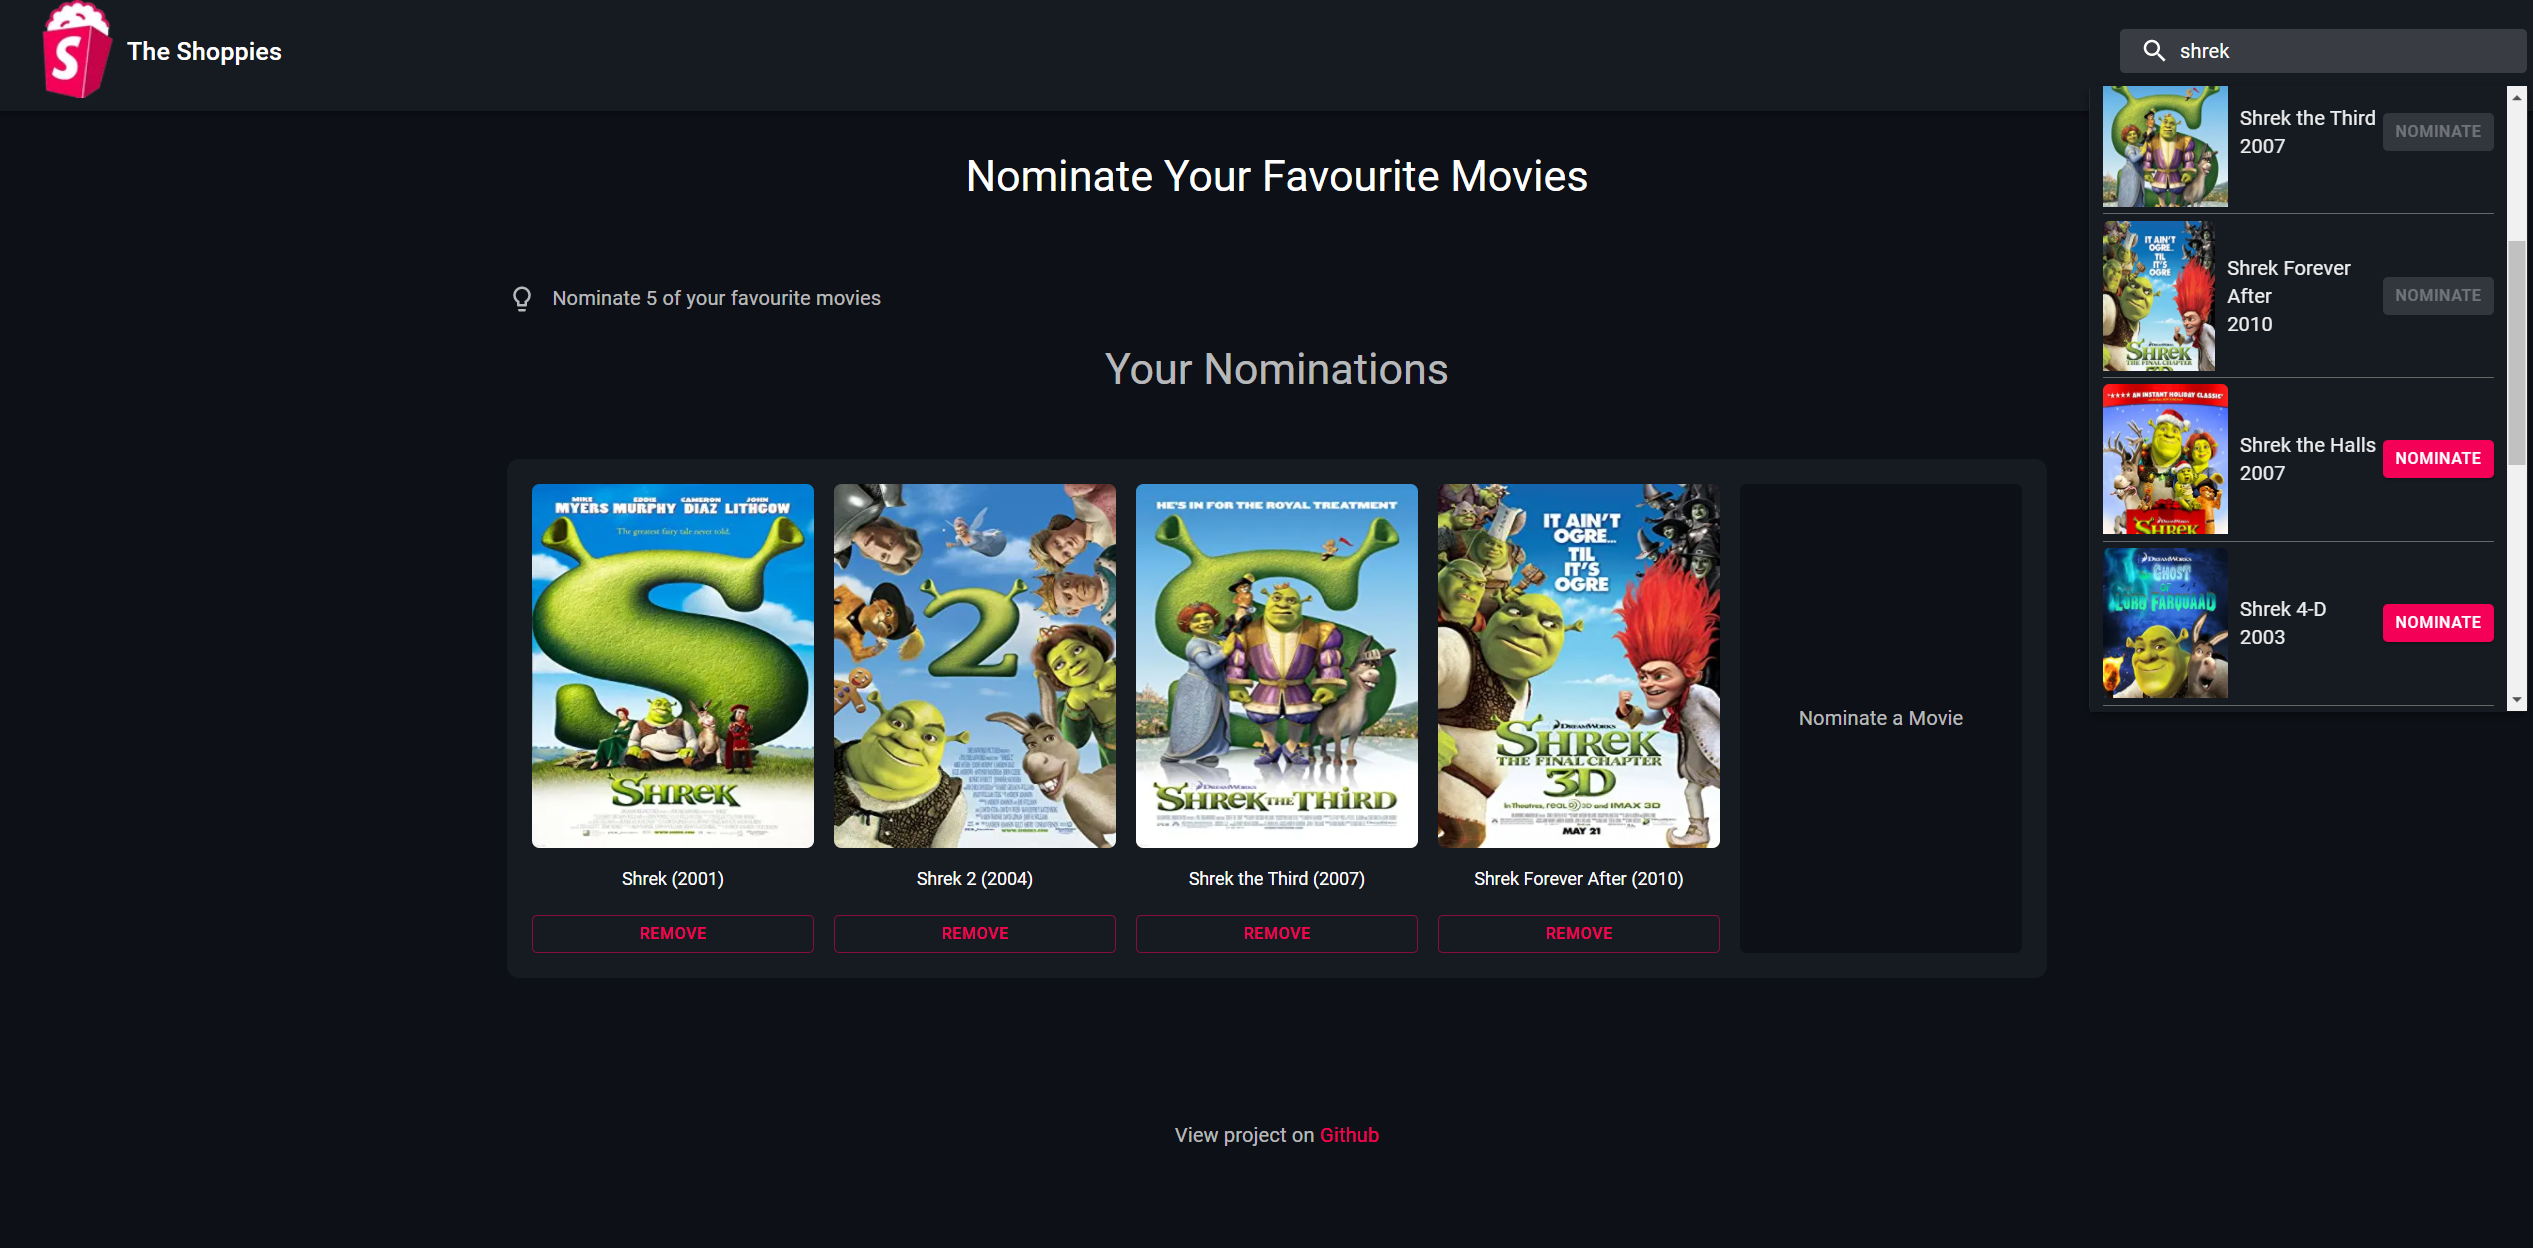
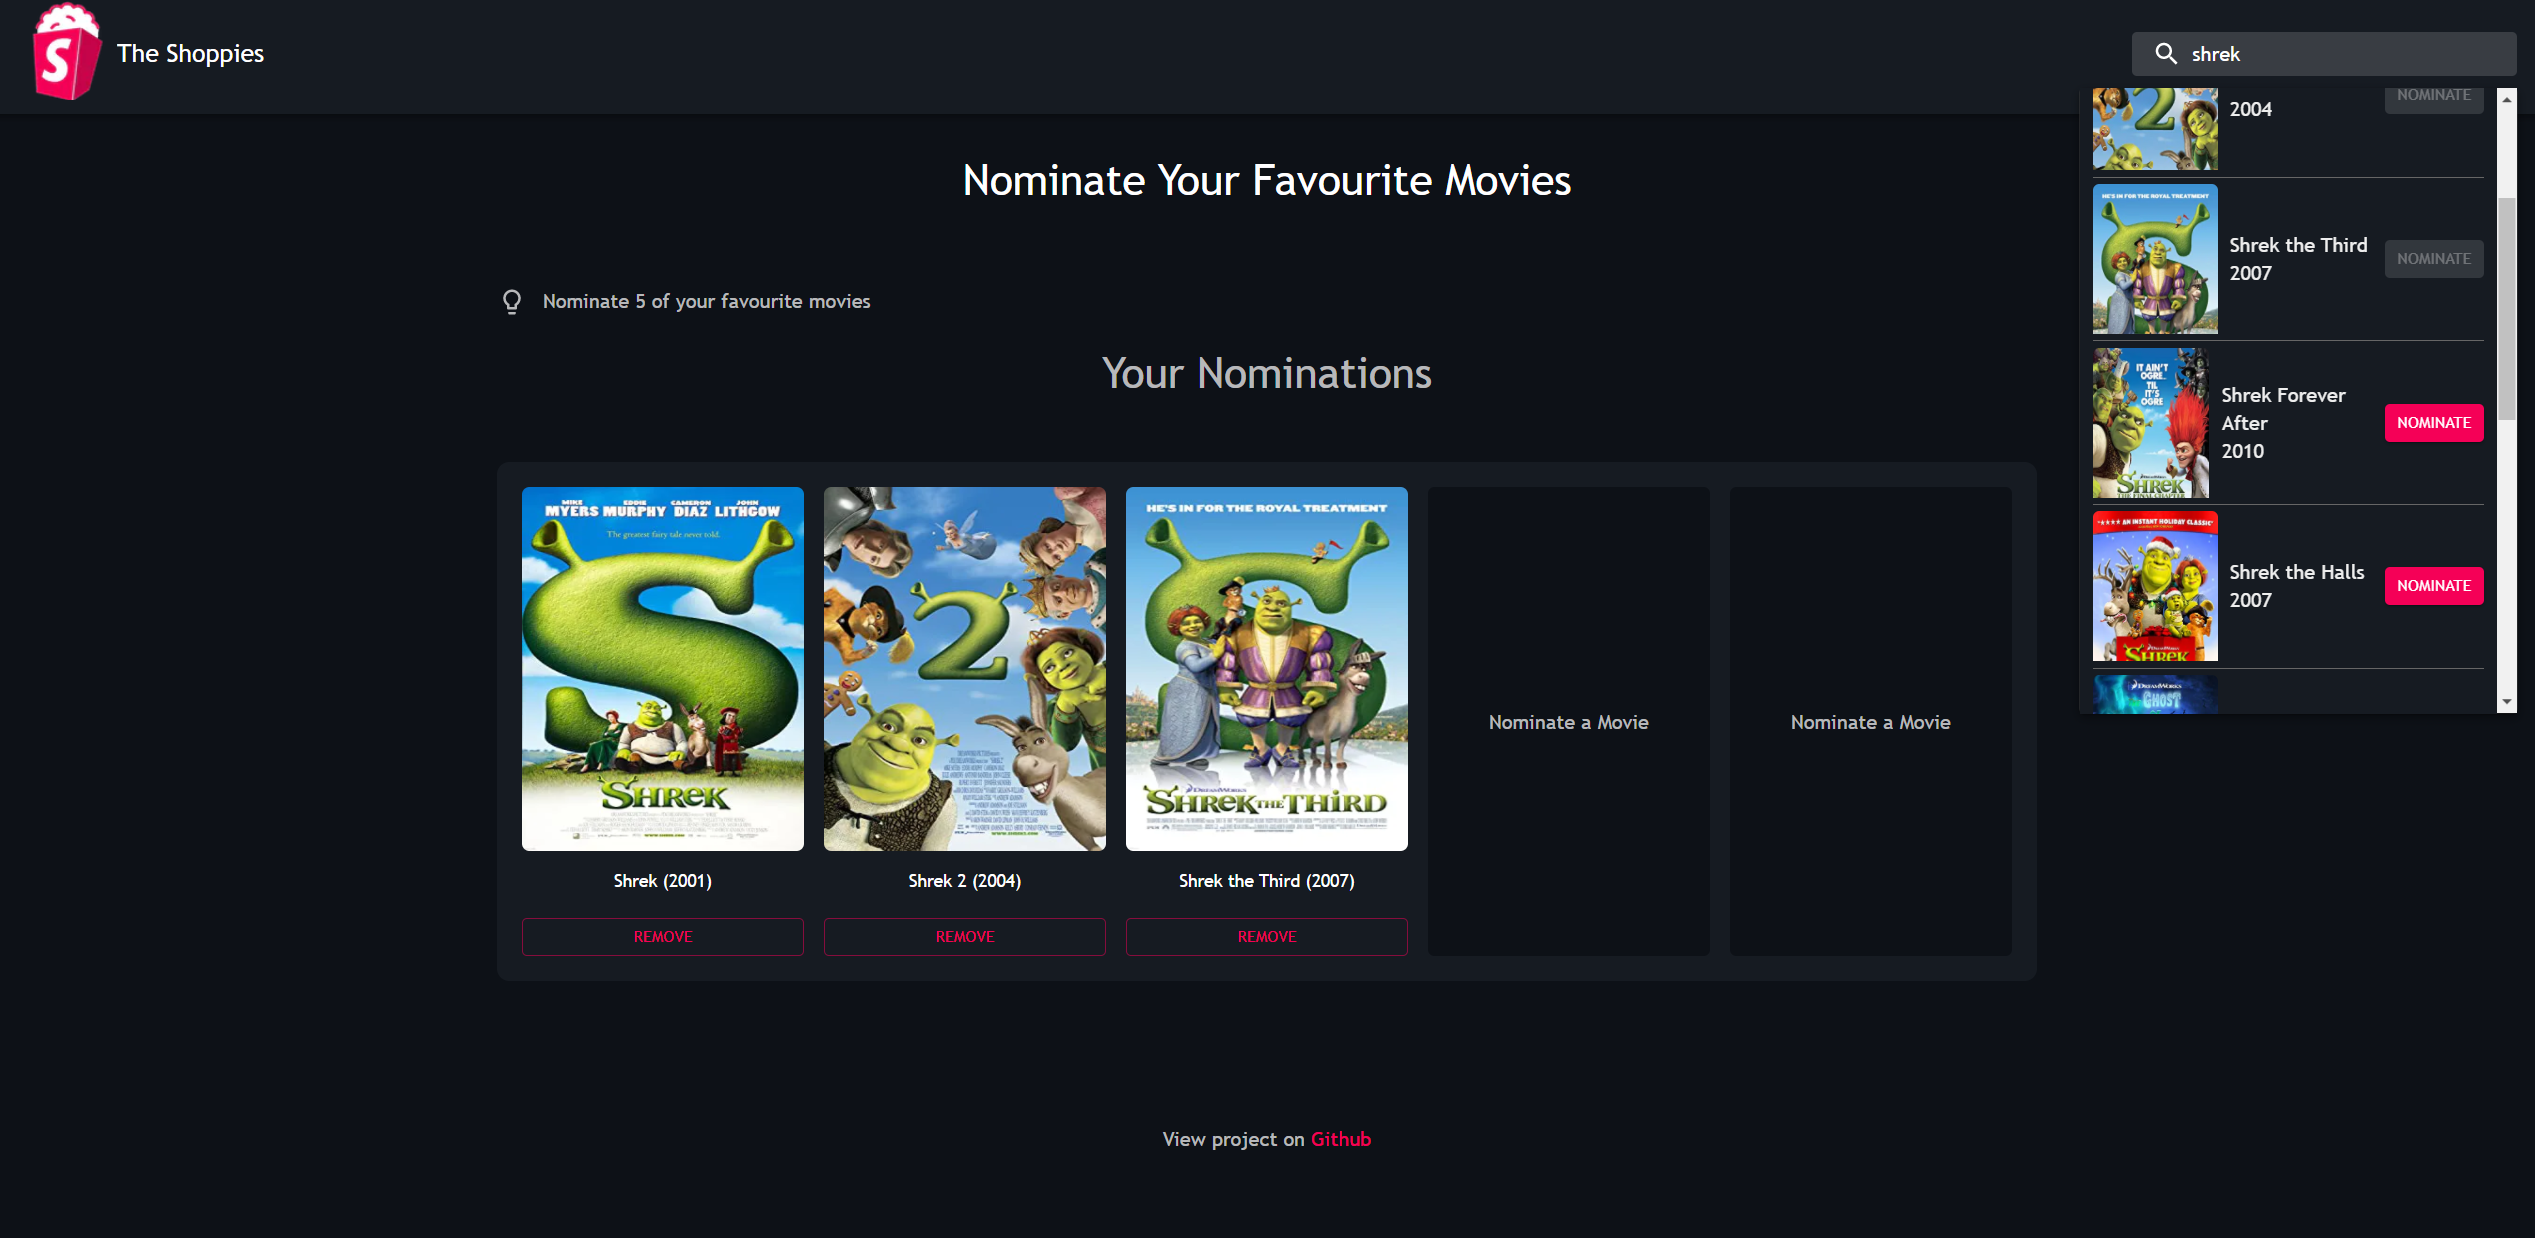
updated images in readme

diff --git a/README.md b/README.md
@@ -6,7 +6,8 @@ Movie nomination UI for the upcoming shoppies
 
 Created using React, Next.js and Material-UI
 
-![Alt text](public/images/widescreen_screenshot.png?raw=true 'Title')
+![Widescreen Screenshot](public/images/widescreen_screenshot.png?raw=true 'Title')
+![iPhone x Screenshot](public/images/iphone_screenshot.png?raw=true 'Title')
 
 ## Available Scripts
 
